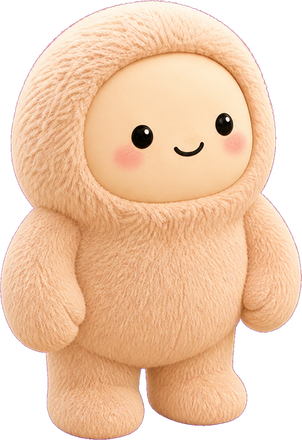
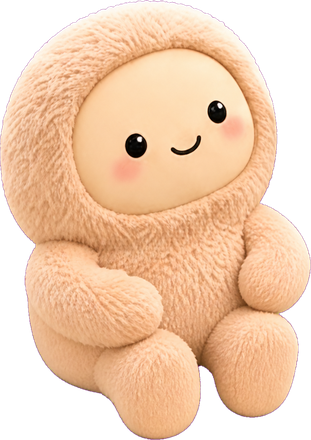
2.5D — 의자·소파 정위치로 좌표 정밀 보정(원탁·롱데스크·큐·부이·라운지), 뮤즈 앉은 자세 스프라이트, 모션을 하단 고정(scaleY+미세 회전)으로, 말풍선은 진행 중 위주 + 완료 보고는 1회만

diff --git a/index.html b/index.html
@@ -832,12 +832,12 @@
   .o25-chr.on img{filter:drop-shadow(0 8px 12px rgba(92,62,42,.22)) brightness(1.06)}
   .o25-chr.on .o25-body{animation:o25hop .55s ease-in-out 2}
   /* 캐릭터별 모션 — 아래(발/좌석) 고정, 위가 흔들리게 */
-  @keyframes o25sway{0%,100%{transform:rotate(-2.8deg) translateY(0)}50%{transform:rotate(3deg) translateY(-1.6%)}}
-  @keyframes o25bob{0%,100%{transform:translateY(0) scale(1,1)}45%{transform:translateY(-2.4%) scale(1.012,1.03)}}
-  @keyframes o25type{0%,100%{transform:translateY(0) rotate(-1.2deg)}28%{transform:translateY(-1.6%) rotate(.9deg)}58%{transform:translateY(.5%) rotate(-.6deg)}80%{transform:translateY(-1%) rotate(.4deg)}}
-  @keyframes o25sip{0%,100%{transform:rotate(-3deg) translateY(0)}50%{transform:rotate(-.5deg) translateY(-1.4%)}}
-  @keyframes o25read{0%,100%{transform:rotate(-2deg)}50%{transform:rotate(1.8deg) translateY(-1%)}}
-  @keyframes o25wave{0%,100%{transform:rotate(0) translateY(0)}18%{transform:rotate(-6deg) translateY(-3.4%)}36%{transform:rotate(6deg) translateY(-3.4%)}54%{transform:rotate(-5deg) translateY(-2.4%)}72%{transform:rotate(4deg) translateY(-1.2%)}}
+  @keyframes o25sway{0%,100%{transform:rotate(-2.4deg) scaleY(1)}50%{transform:rotate(2.6deg) scaleY(1.016)}}
+  @keyframes o25bob{0%,100%{transform:rotate(0) scaleY(1) scaleX(1)}50%{transform:rotate(.6deg) scaleY(1.028) scaleX(.99)}}
+  @keyframes o25type{0%,100%{transform:rotate(-1deg) scaleY(1)}30%{transform:rotate(.8deg) scaleY(1.014)}65%{transform:rotate(-.4deg) scaleY(.997)}}
+  @keyframes o25sip{0%,100%{transform:rotate(-2.6deg) scaleY(1)}50%{transform:rotate(-.6deg) scaleY(1.014)}}
+  @keyframes o25read{0%,100%{transform:rotate(-1.8deg) scaleY(1)}50%{transform:rotate(1.5deg) scaleY(1.012)}}
+  @keyframes o25wave{0%,100%{transform:rotate(0) scaleY(1)}18%{transform:rotate(-5deg) scaleY(1.03)}36%{transform:rotate(5deg) scaleY(1.03)}54%{transform:rotate(-4deg) scaleY(1.022)}72%{transform:rotate(3deg) scaleY(1.01)}}
   .m-sway .o25-body{animation:o25sway var(--dur,5.4s) ease-in-out infinite; animation-delay:var(--sd,0s)}
   .m-bob  .o25-body{animation:o25bob var(--dur,4.6s) ease-in-out infinite; animation-delay:var(--sd,0s)}
   .m-type .o25-body{animation:o25type var(--dur,2.2s) ease-in-out infinite; animation-delay:var(--sd,0s)}
@@ -2685,28 +2685,39 @@
 
   /* ── 캐릭터 배치 (좌표는 원본 1254px 사진 기준) ───────────── */
   var CHARS = [
-    { k: 'chorok',   name: '초록',     tag: '(메인)', x: 668,  y: 508,  h: 132, clip: 14, ar: 0.7712,
-      lines: ['체험단 6개 카테고리 추리는 중이에요', '노션 공용 허브 정리 완료했어요', '모닝 브리핑 초안 쓰고 있어요'], motion: 'm-type' },
-    { k: 'norang',   name: '노랑',     tag: '',        x: 772,  y: 536,  h: 132, clip: 14, ar: 0.7769,
-      lines: ['핫딜헌터 훑는 중이에요', '공공설문 3건 완료했어요', '체험단 신청서 작성하고 있어요'], motion: 'm-type' },
-    { k: 'maknae',   name: '막내',     tag: '',        x: 876,  y: 564,  h: 128, clip: 14, ar: 0.8135,
-      lines: ['해피방 새 소식 확인 중이에요', '포토리뷰 두 건 완료했어요', '동행복권 응모 끝냈어요'], motion: 'm-type' },
-    { k: 'jinpink',  name: '진분홍',   tag: '',        x: 980,  y: 592,  h: 134, clip: 14, ar: 0.7731,
-      lines: ['쿠팡 주문 점검하고 있어요', '5대 몰 출첵 완료했어요', '발표 확인 돌고 있어요'], motion: 'm-type' },
-    { k: 'muse',     name: '뮤즈',     tag: '',        x: 440,  y: 668,  h: 184, clip: 12, ar: 0.6865,
-      lines: ['AI 트렌드 브리핑 쓰는 중이에요', '해피방 답장 완료했어요', '경품 당첨 판 확인 중이에요'], motion: 'm-sway' },
-    { k: 'kyring',   name: '키링',     tag: '',        x: 706,  y: 684,  h: 150, clip: 0, ar: 0.6955,
-      lines: ['알림 정리하고 있어요', '예약 확인 완료했어요', '협업 건 받아서 처리 중이에요'], motion: 'm-sway' },
-    { k: 'q',        name: '큐',       tag: '',        x: 222,  y: 712,  h: 164, clip: 14, ar: 0.7000,
-      lines: ['공공기관 설문 모으는 중이에요', '회의 안건 정리 완료했어요', '일정 확인하고 있어요'], motion: 'm-type' },
-    { k: 'vooy',     name: '부이',     tag: '',        x: 1108, y: 818,  h: 150, clip: 8, ar: 0.7432,
-      lines: ['협업 건 정리하는 중이에요', '해피방 중계 확인 완료했어요', '새 건 오는 대로 전달할게요'], motion: 'm-type' },
-    { k: 'hama',     name: '하마뮤즈', tag: '',        x: 462,  y: 1040, h: 176, clip: 0, ar: 0.6114,
-      lines: ['AGE-R 우유 주문 중이에요', '경품 응모 완료했어요', '카톡 새 소식 감지하고 있어요'], motion: 'm-sip' },
-    { k: 'hark',     name: '하크',     tag: '',        x: 692,  y: 1018,  h: 160, clip: 0, ar: 0.7364,
-      lines: ['해피방 감지 돌고 있어요', '협업 건 처리 완료했어요', '새 지시 기다리는 중이에요'], motion: 'm-bob' },
-    { k: 'instinct', name: '인스팅트', tag: '',        x: 874,  y: 1056, h: 168, clip: 0, ar: 0.7273,
-      lines: ['6개 플랫폼 체험단 수집 중이에요', '오피넷 유가 확인 완료했어요', '주간 핫플 후보 모으고 있어요'], motion: 'm-read' }
+    { k: 'chorok',   name: '초록',     tag: '(메인)', x: 690,  y: 486,  h: 132, clip: 10, ar: 0.7712, motion: 'm-type',
+      lines: ['체험단 6개 카테고리 추리는 중이에요', '모닝 브리핑 초안 쓰고 있어요', '노션 허브 정리 이어가는 중이에요'],
+      done: ['노션 공용 허브 정리 완료했어요'] },
+    { k: 'norang',   name: '노랑',     tag: '',        x: 818,  y: 514,  h: 132, clip: 10, ar: 0.7769, motion: 'm-type',
+      lines: ['핫딜헌터 훑는 중이에요', '체험단 신청서 작성하고 있어요', '설문 마감 시각 지키는 중이에요'],
+      done: ['공공설문 3건 완료했어요'] },
+    { k: 'maknae',   name: '막내',     tag: '',        x: 946,  y: 542,  h: 128, clip: 10, ar: 0.8135, motion: 'm-type',
+      lines: ['해피방 새 소식 확인 중이에요', '포토리뷰 쓰고 있어요', '응모 목록 정리하는 중이에요'],
+      done: ['포토리뷰 두 건 완료했어요', '동행복권 응모 끝냈어요'] },
+    { k: 'jinpink',  name: '진분홍',   tag: '',        x: 1074, y: 570,  h: 134, clip: 10, ar: 0.7731, motion: 'm-type',
+      lines: ['쿠팡 주문 점검하고 있어요', '발표 확인 돌고 있어요', '적립 내역 맞춰보는 중이에요'],
+      done: ['5대 몰 출첵 완료했어요'] },
+    { k: 'muse',     name: '뮤즈',     tag: '',        x: 398,  y: 674,  h: 176, clip: 0,  ar: 0.7068, motion: 'm-sway',
+      lines: ['AI 트렌드 브리핑 쓰는 중이에요', '경품 당첨 판 확인 중이에요', '해피방 답장 정리하고 있어요'],
+      done: ['해피방 답장 완료했어요'] },
+    { k: 'kyring',   name: '키링',     tag: '',        x: 702,  y: 694,  h: 150, clip: 0,  ar: 0.6955, motion: 'm-sway',
+      lines: ['알림 정리하고 있어요', '협업 건 받아서 처리 중이에요', '예약 시간 확인하는 중이에요'],
+      done: ['예약 확인 완료했어요'] },
+    { k: 'q',        name: '큐',       tag: '',        x: 208,  y: 748,  h: 164, clip: 12, ar: 0.7000, motion: 'm-type',
+      lines: ['공공기관 설문 모으는 중이에요', '일정 확인하고 있어요', '회의 안건 추리는 중이에요'],
+      done: ['회의 안건 정리 완료했어요'] },
+    { k: 'vooy',     name: '부이',     tag: '',        x: 1106, y: 845,  h: 150, clip: 8,  ar: 0.7432, motion: 'm-type',
+      lines: ['협업 건 정리하는 중이에요', '새 건 오는 대로 전달할게요', '해피방 중계 확인하는 중이에요'],
+      done: ['해피방 중계 확인 완료했어요'] },
+    { k: 'hama',     name: '하마뮤즈', tag: '',        x: 398,  y: 1030, h: 176, clip: 0,  ar: 0.6114, motion: 'm-sip',
+      lines: ['AGE-R 우유 주문 중이에요', '카톡 새 소식 감지하고 있어요', '커피 한 모금 마시는 중이에요'],
+      done: ['경품 응모 완료했어요'] },
+    { k: 'hark',     name: '하크',     tag: '',        x: 618,  y: 1040, h: 160, clip: 0,  ar: 0.7364, motion: 'm-bob',
+      lines: ['해피방 감지 돌고 있어요', '새 지시 기다리는 중이에요', '협업 건 살펴보는 중이에요'],
+      done: ['협업 건 처리 완료했어요'] },
+    { k: 'instinct', name: '인스팅트', tag: '',        x: 852,  y: 1066, h: 168, clip: 0,  ar: 0.7273, motion: 'm-read',
+      lines: ['6개 플랫폼 체험단 수집 중이에요', '주간 핫플 후보 모으고 있어요', '오피넷 유가 보는 중이에요'],
+      done: ['오피넷 유가 확인 완료했어요'] }
   ];
 
   var AGC_ON = { '초록': 1, '노랑': 1, '막내': 1, '진분홍': 1 };
@@ -2778,15 +2789,38 @@
     c.bub.style.top = (cy / stageH * 100).toFixed(3) + '%';
     return true;
   }
-  function showBub(c, ms, force) {
+  function paintBub(c, text, ms, force) {
     if (!force && overlapsOthers(c) && shown.indexOf(c.name) < 0) return false;
-    c.lineIdx = (c.lineIdx + 1) % c.lines.length;
-    c.bub.innerHTML = '<b class="o25-bub-t">' + statusDot(c.name) + '<span>' + c.lines[c.lineIdx] + '</span></b>';
+    c.bub.innerHTML = '<b class="o25-bub-t">' + statusDot(c.name) + '<span>' + text + '</span></b>';
     if (!bubPlace(c)) return false;
     if (shown.indexOf(c.name) < 0) shown.push(c.name);
     c.bub.classList.add('on');
     c.visibleUntil = Date.now() + (ms || 5200);
     return true;
+  }
+  function showBub(c, ms, force) {
+    if (!force && overlapsOthers(c) && shown.indexOf(c.name) < 0) return false;
+    c.lineIdx = (c.lineIdx + 1) % c.lines.length;
+    return paintBub(c, c.lines[c.lineIdx], ms, force);
+  }
+  /* 완료 보고는 브라우저당 딱 한 번만 */
+  var DONE_KEY = 'naeun:o25-done:v1';
+  var doneSeen = {};
+  try { doneSeen = JSON.parse(localStorage.getItem(DONE_KEY) || '{}') || {}; } catch (e) { doneSeen = {}; }
+  function saveDone() { try { localStorage.setItem(DONE_KEY, JSON.stringify(doneSeen)); } catch (e) {} }
+  function popDoneOnce() {
+    var shownCount = 0;
+    CHARS.forEach(function (c) {
+      if (!c.done || shownCount >= 2) return;
+      for (var i = 0; i < c.done.length && shownCount < 2; i++) {
+        var key = c.name + ':' + i;
+        if (doneSeen[key]) continue;
+        doneSeen[key] = 1;
+        if (paintBub(c, c.done[i], 5800, true)) shownCount++;
+      }
+    });
+    saveDone();
+    return shownCount;
   }
   function refreshBubbles() {
     shown.slice().forEach(function (n) {
@@ -2982,9 +3016,12 @@
 
   /* ── 말풍선 시작 ──────────────────────────────────────── */
   setTimeout(function () {
-    showBub(byName['초록'], 6000, true);
-    setTimeout(function () { rotateBubbles(); }, 700);
-  }, 1100);
+    popDoneOnce();                                   // 완료 보고 — 처음 한 번만
+    setTimeout(function () {
+      showBub(byName['초록'], 6000, true);
+      setTimeout(rotateBubbles, 900);
+    }, 600);
+  }, 900);
   setInterval(rotateBubbles, 4200);
   // 가끔 한 명이 크게 손을 흔들듯 움직인다
   setInterval(function () {
